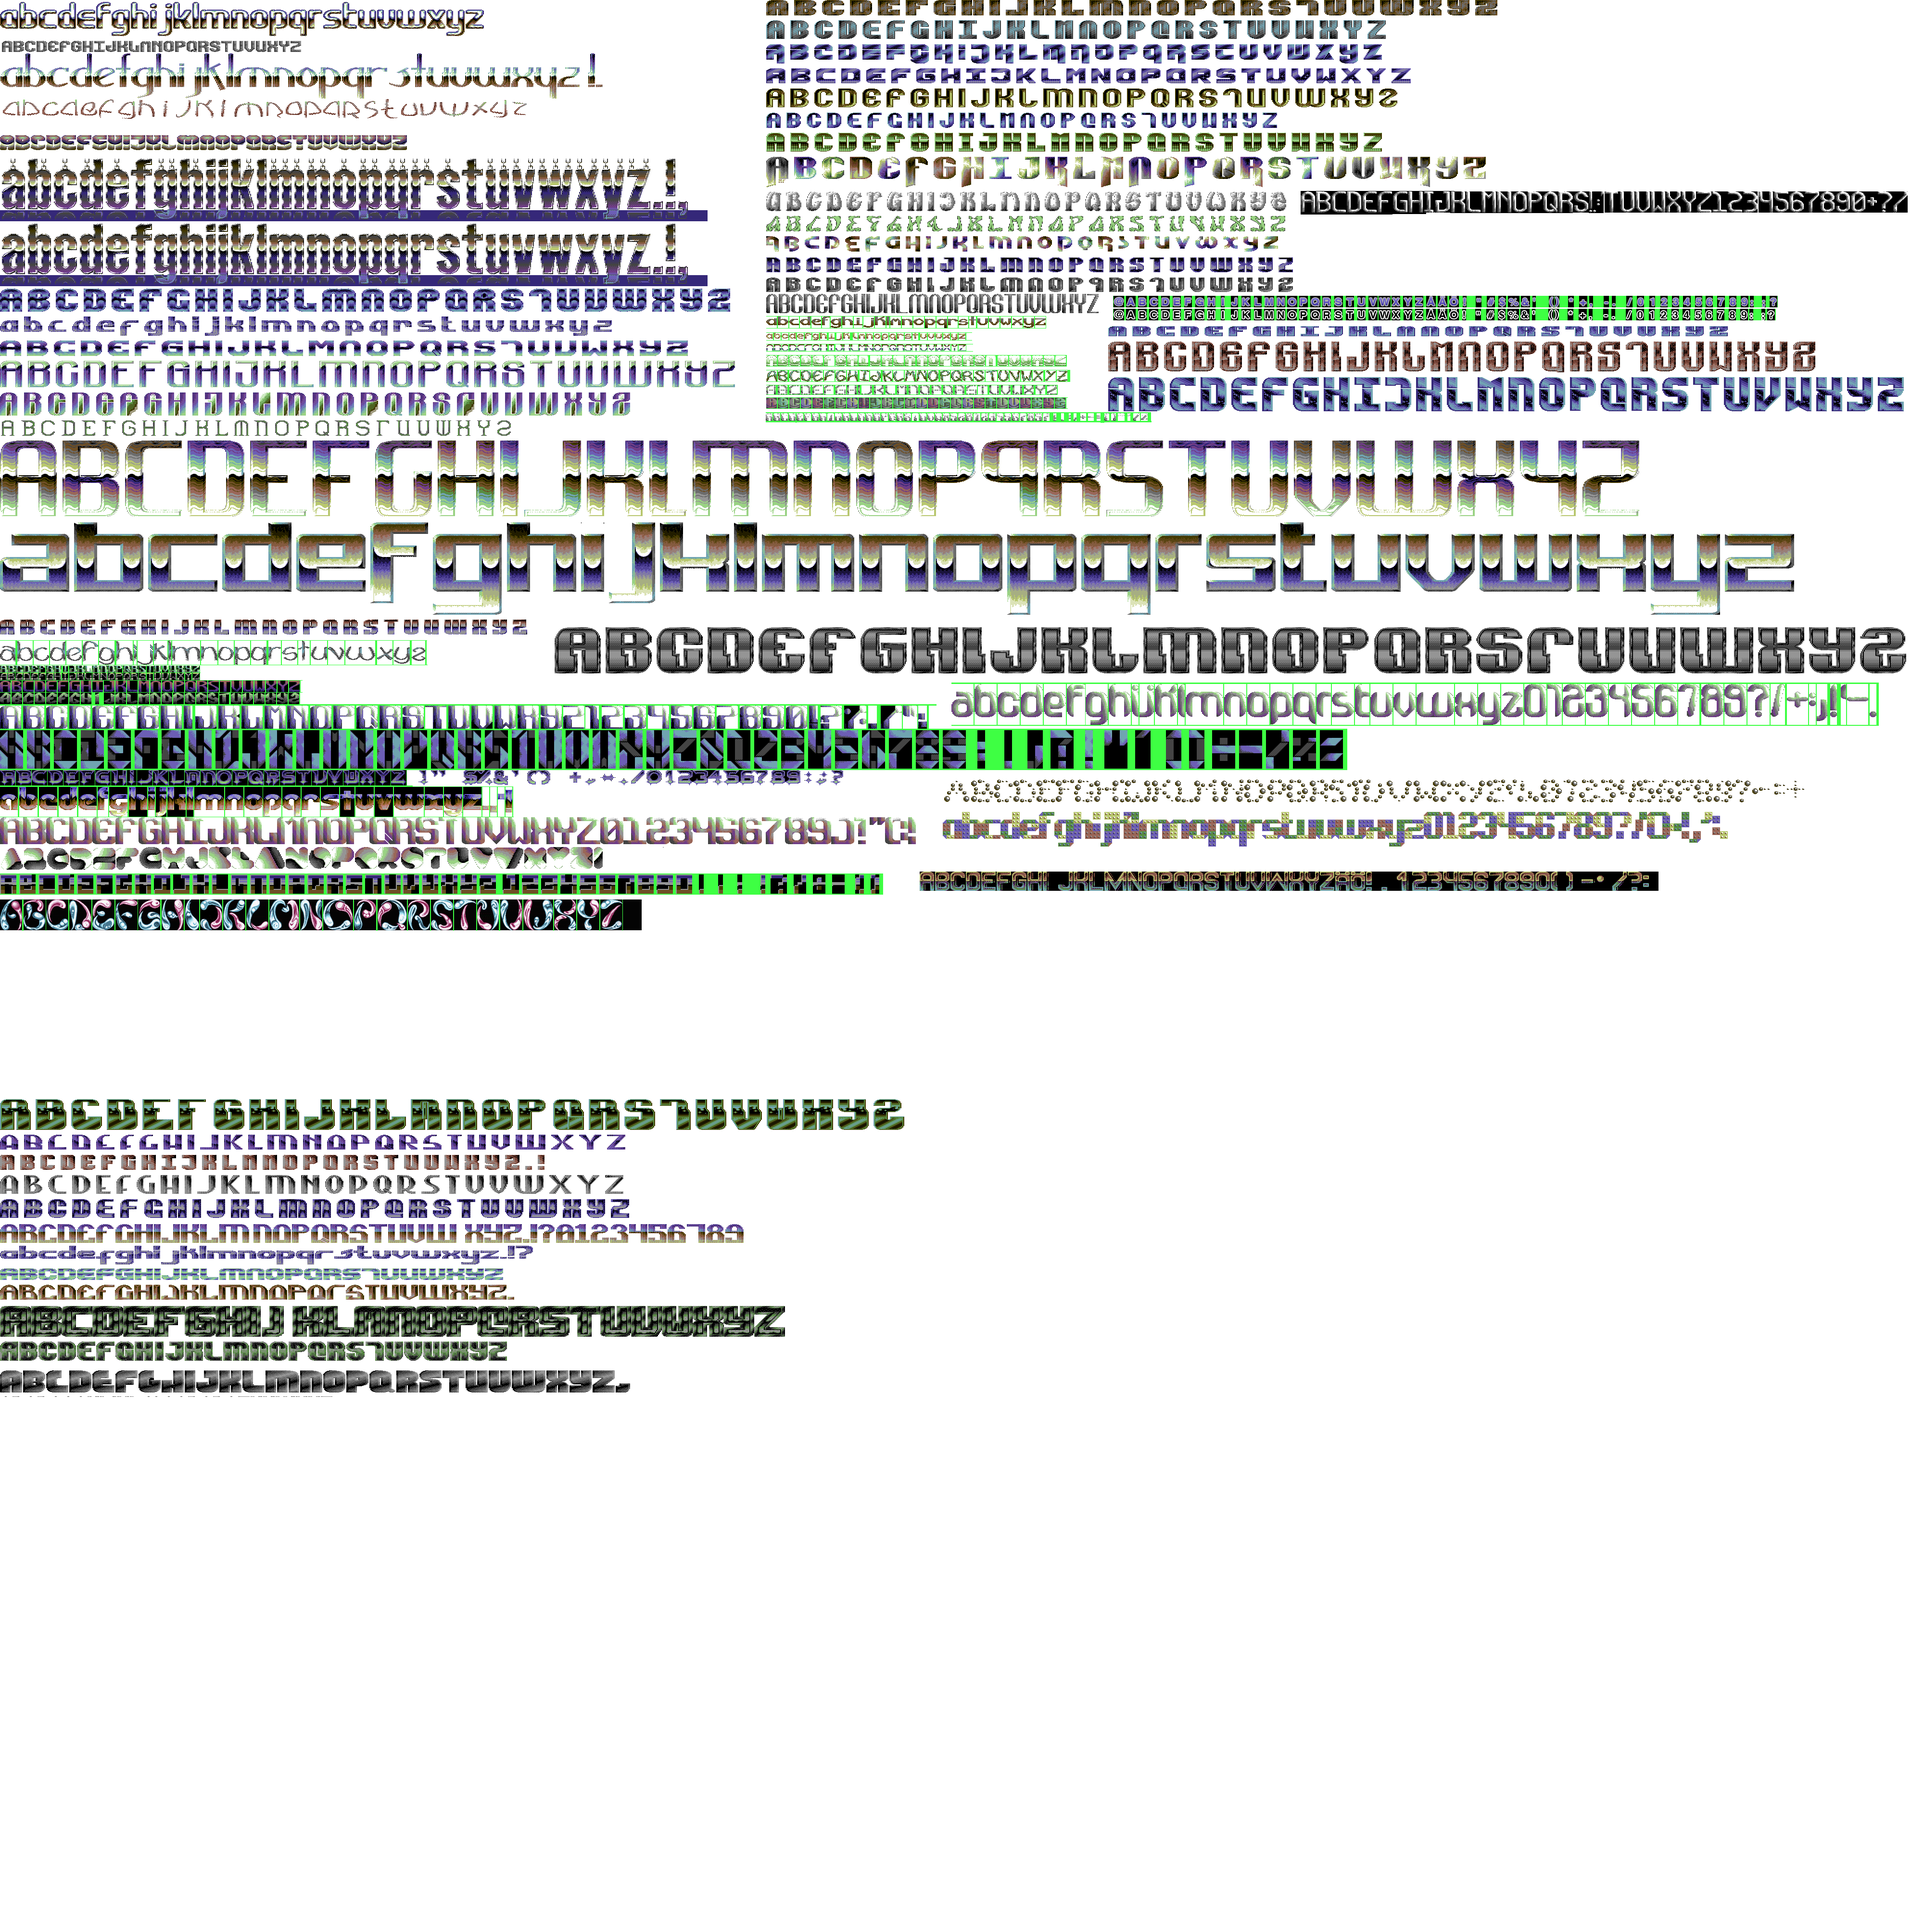
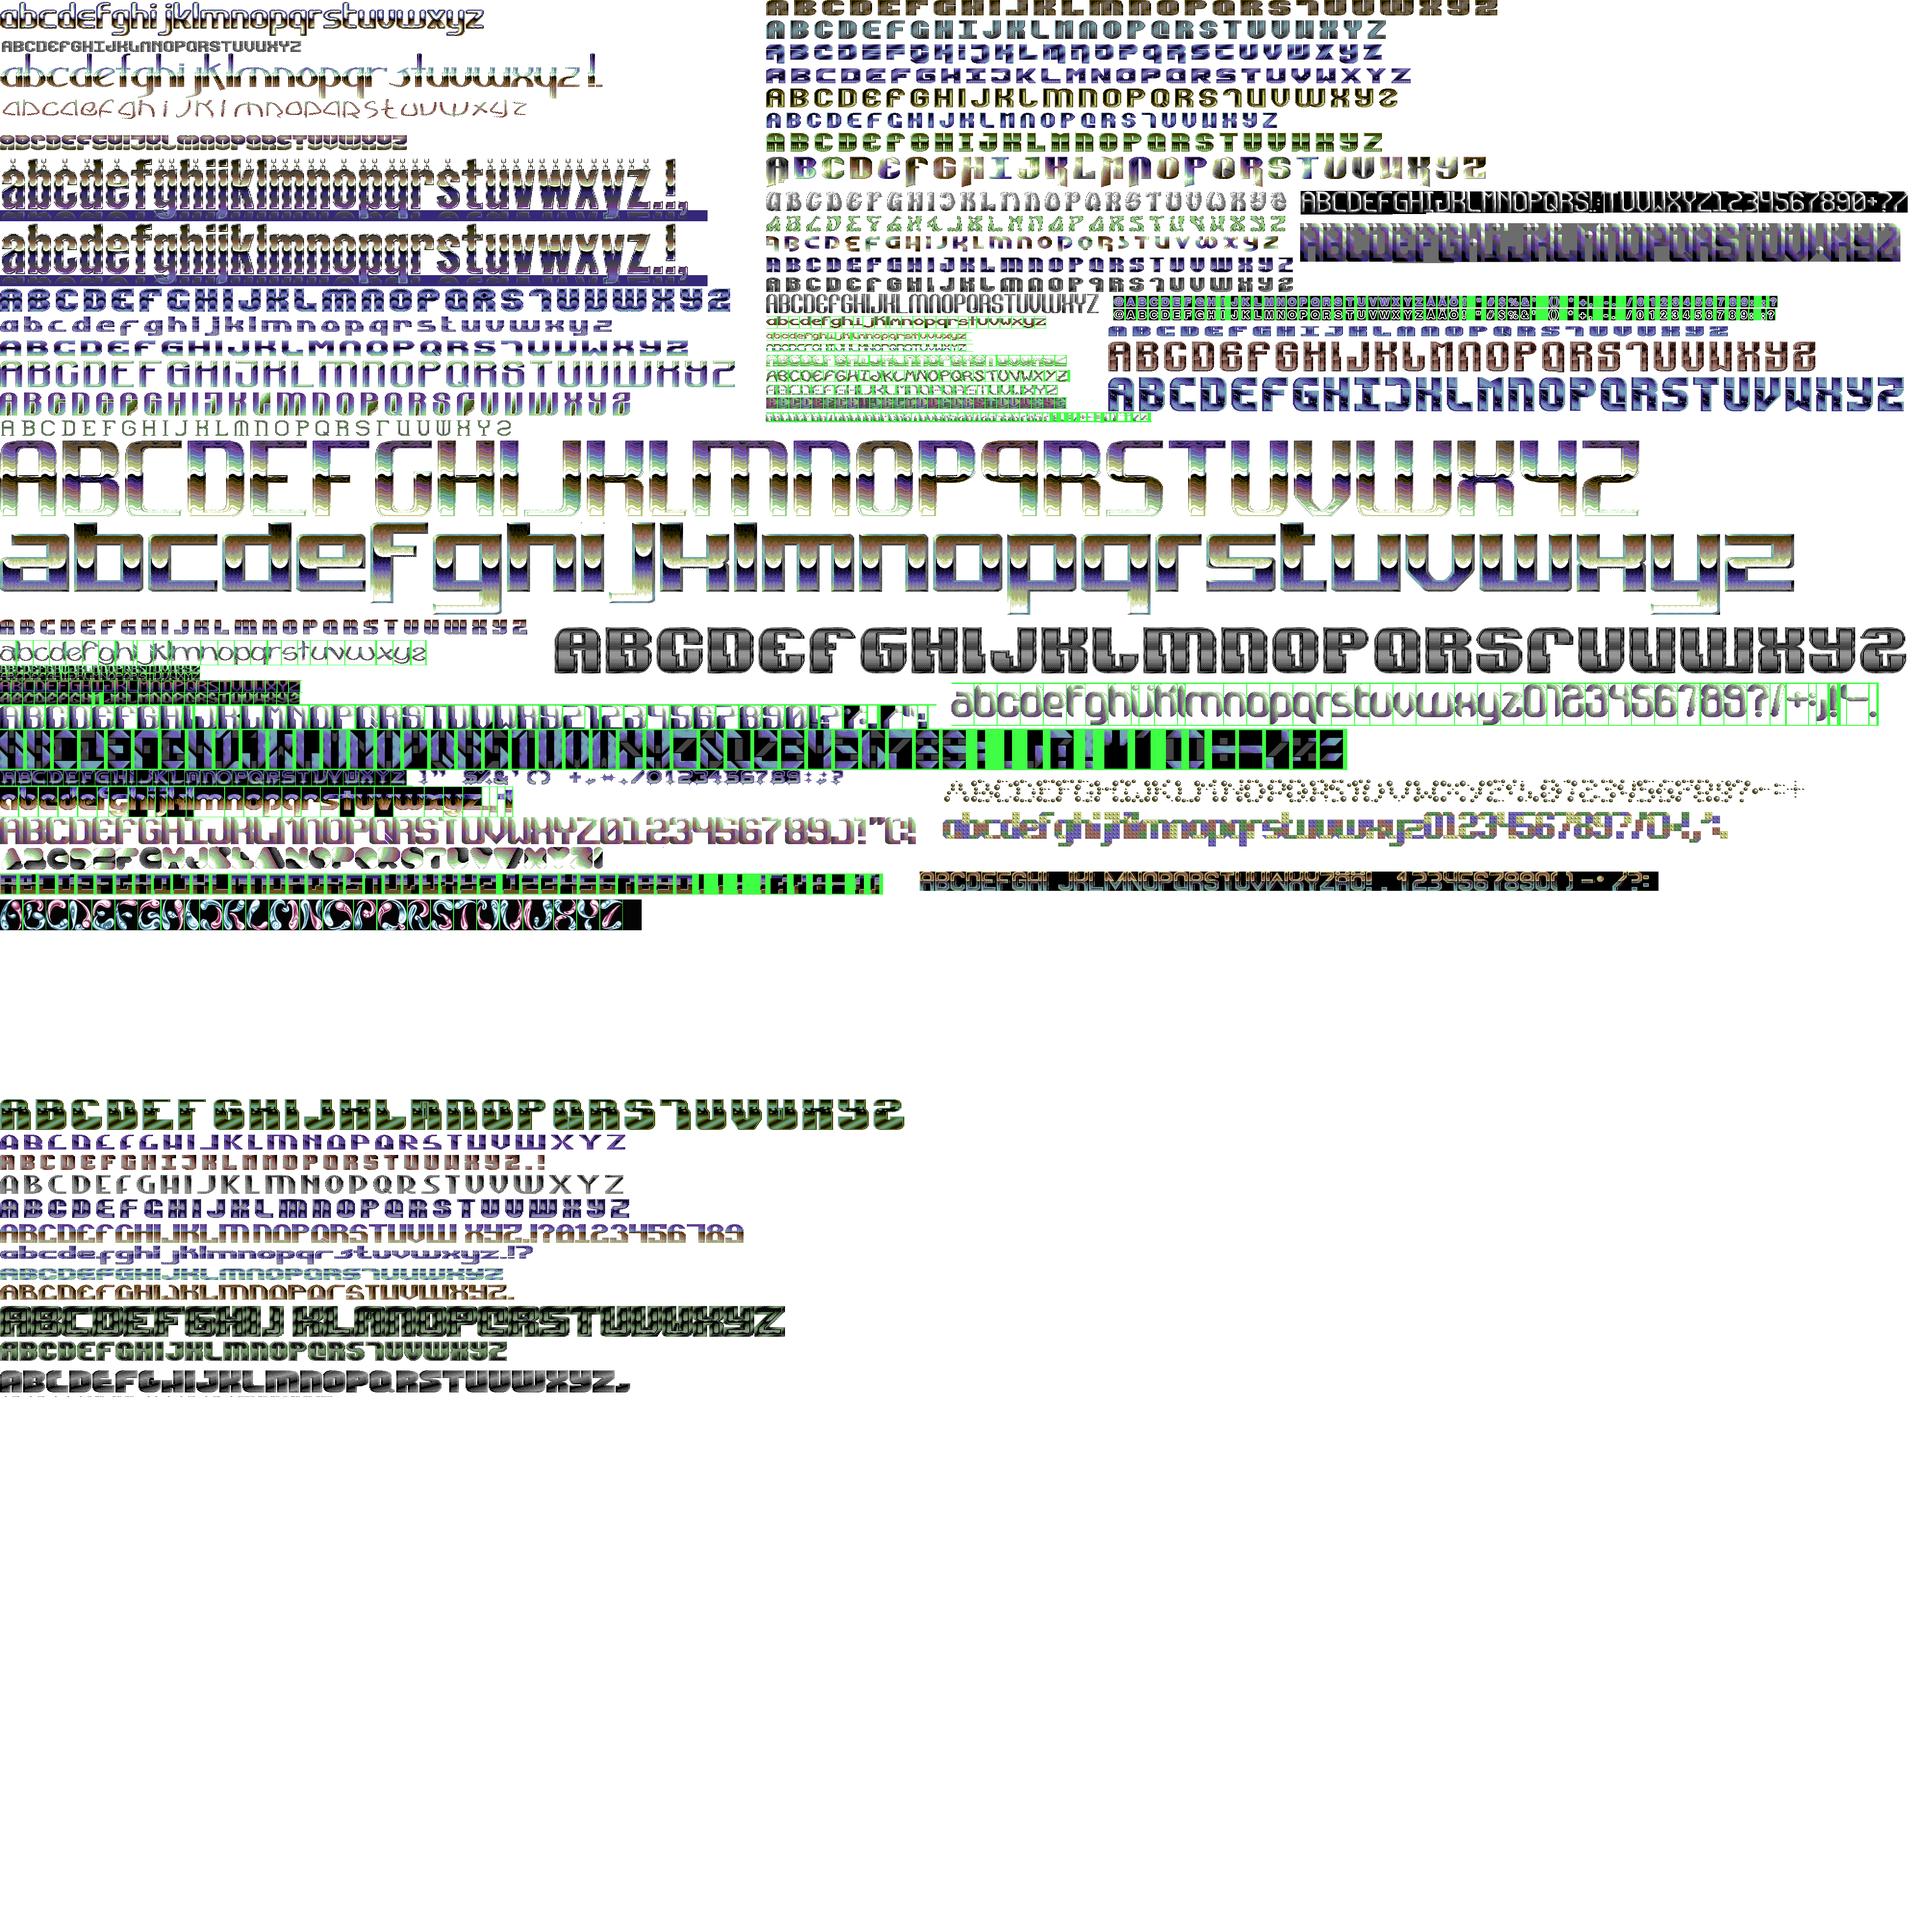
new font by cupid

Changed region(s): [[0.6562, 0.0938, 1.0, 0.1562]]

diff --git a/js/fonts.js b/js/fonts.js
@@ -1,78 +1,79 @@
 var imgobj = 
 {"ollie":{"start":0,"width":139,"height":62},
-  "fullheight":4260,"fullwidth":266,"reward":{"start":62,"width":93,"height":34},
-  "rookie":{"start":96,"width":232,"height":74},
-  "rewardbw":{"start":170,"width":92,"height":34},
-  "tinygold":{"start":204,"width":68,"height":24},
-  "arcoss":{"start":228,"width":192,"height":58},
-  "legomylogo":{"start":286,"width":152,"height":82},
-  "fcs":{"start":368,"width":154,"height":50},
-  "rocks":{"start":418,"width":192,"height":58},
-  "roundandlong":{"start":476,"width":136,"height":54},
-  "foldfont":{"start":530,"width":208,"height":90},
-  "roundandproud":{"start":620,"width":162,"height":95},
-  "bigcolourhires":{"start":715,"width":208,"height":66},
-  "twobytwohirescupid":{"start":781,"width":76,"height":24},
-  "nailedit":{"start":805,"width":72,"height":26},
-  "balls":{"start":831,"width":73,"height":25},
-  "cupidtilt":{"start":856,"width":104,"height":32},
-  "psychopoetry":{"start":888,"width":104,"height":33},
-  "metalpetscii":{"start":921,"width":152,"height":50},
-  "pseudotechno":{"start":971,"width":104,"height":29},
-  "cupid2014":{"start":1000,"width":114,"height":52},
-  "ironsky":{"start":1052,"width":104,"height":34},
-  "legend":{"start":1086,"width":142,"height":42},
-  "censor":{"start":1128,"width":142,"height":42},
-  "qpd":{"start":1170,"width":114,"height":41},
-  "tostretch":{"start":1211,"width":160,"height":25},
-  "cpx4":{"start":1236,"width":166,"height":43},
-  "cpx3":{"start":1279,"width":167,"height":51},
-  "macaroons":{"start":1330,"width":110,"height":32},
-  "artline":{"start":1362,"width":166,"height":50},
-  "deekay":{"start":1412,"width":146,"height":42},
-  "cupidround":{"start":1454,"width":88,"height":34},
-  "cupidfriendlyround":{"start":1488,"width":200,"height":55},
-  "orc":{"start":1543,"width":154,"height":85},
-  "compyx":{"start":1628,"width":178,"height":107},
-  "bd":{"start":1735,"width":210,"height":58},
-  "artix":{"start":1793,"width":154,"height":50},
-  "bd2":{"start":1843,"width":202,"height":42},
-  "bk":{"start":1885,"width":210,"height":66},
-  "bk2":{"start":1951,"width":178,"height":58},
-  "cml":{"start":2009,"width":144,"height":42},
-  "sulaco":{"start":2051,"width":104,"height":34},
-  "diart2":{"start":2085,"width":144,"height":72},
-  "deekay4":{"start":2157,"width":144,"height":42},
-  "dize":{"start":2199,"width":146,"height":42},
-  "genius":{"start":2241,"width":210,"height":42},
-  "gp":{"start":2283,"width":178,"height":50},
-  "htl":{"start":2333,"width":178,"height":50},
-  "htl2":{"start":2383,"width":186,"height":42},
-  "manowar":{"start":2425,"width":178,"height":50},
-  "nec":{"start":2475,"width":146,"height":42},
-  "ons":{"start":2517,"width":178,"height":50},
-  "oregon":{"start":2567,"width":210,"height":74},
-  "skyhigh":{"start":2641,"width":178,"height":32},
-  "vic":{"start":2673,"width":146,"height":50},
-  "deliverance":{"start":2723,"width":174,"height":50},
-  "unibit":{"start":2773,"width":206,"height":58},
-  "vic3":{"start":2831,"width":146,"height":42},
-  "wot":{"start":2873,"width":138,"height":44},
-  "wow":{"start":2917,"width":146,"height":42},
-  "tempest":{"start":2959,"width":210,"height":74},
-  "vic2":{"start":3033,"width":266,"height":74},
-  "cpx6":{"start":3107,"width":151,"height":49},
-  "tough":{"start":3156,"width":175,"height":34},
-  "doolittle":{"start":3190,"width":175,"height":42},
-  "unknown":{"start":3232,"width":234,"height":81},
-  "cpx5":{"start":3313,"width":174,"height":52},
-  "cupidbigstone":{"start":3365,"width":118,"height":60},
-  "deliverance2":{"start":3425,"width":142,"height":74},
-  "deekay2":{"start":3499,"width":198,"height":140},
-  "deekay3":{"start":3639,"width":198,"height":143},
-  "oregon2":{"start":3782,"width":202,"height":106},
-  "cpx2":{"start":3888,"width":210,"height":170},
-  "diart":{"start":4058,"width":202,"height":202}
+"fullheight":4350,"fullwidth":266,"dotshires":{"start":62,"width":208,"height":90},
+"reward":{"start":152,"width":93,"height":34},
+"rookie":{"start":186,"width":232,"height":74},
+"rewardbw":{"start":260,"width":92,"height":34},
+"tinygold":{"start":294,"width":68,"height":24},
+"arcoss":{"start":318,"width":192,"height":58},
+"legomylogo":{"start":376,"width":152,"height":82},
+"fcs":{"start":458,"width":154,"height":50},
+"rocks":{"start":508,"width":192,"height":58},
+"roundandlong":{"start":566,"width":136,"height":54},
+"foldfont":{"start":620,"width":208,"height":90},
+"roundandproud":{"start":710,"width":162,"height":95},
+"bigcolourhires":{"start":805,"width":208,"height":66},
+"twobytwohirescupid":{"start":871,"width":76,"height":24},
+"nailedit":{"start":895,"width":72,"height":26},
+"balls":{"start":921,"width":73,"height":25},
+"cupidtilt":{"start":946,"width":104,"height":32},
+"psychopoetry":{"start":978,"width":104,"height":33},
+"metalpetscii":{"start":1011,"width":152,"height":50},
+"pseudotechno":{"start":1061,"width":104,"height":29},
+"cupid2014":{"start":1090,"width":114,"height":52},
+"ironsky":{"start":1142,"width":104,"height":34},
+"legend":{"start":1176,"width":142,"height":42},
+"censor":{"start":1218,"width":142,"height":42},
+"qpd":{"start":1260,"width":114,"height":41},
+"tostretch":{"start":1301,"width":160,"height":25},
+"cpx4":{"start":1326,"width":166,"height":43},
+"cpx3":{"start":1369,"width":167,"height":51},
+"macaroons":{"start":1420,"width":110,"height":32},
+"artline":{"start":1452,"width":166,"height":50},
+"deekay":{"start":1502,"width":146,"height":42},
+"cupidround":{"start":1544,"width":88,"height":34},
+"cupidfriendlyround":{"start":1578,"width":200,"height":55},
+"orc":{"start":1633,"width":154,"height":85},
+"compyx":{"start":1718,"width":178,"height":107},
+"bd":{"start":1825,"width":210,"height":58},
+"artix":{"start":1883,"width":154,"height":50},
+"bd2":{"start":1933,"width":202,"height":42},
+"bk":{"start":1975,"width":210,"height":66},
+"bk2":{"start":2041,"width":178,"height":58},
+"cml":{"start":2099,"width":144,"height":42},
+"sulaco":{"start":2141,"width":104,"height":34},
+"diart2":{"start":2175,"width":144,"height":72},
+"deekay4":{"start":2247,"width":144,"height":42},
+"dize":{"start":2289,"width":146,"height":42},
+"genius":{"start":2331,"width":210,"height":42},
+"gp":{"start":2373,"width":178,"height":50},
+"htl":{"start":2423,"width":178,"height":50},
+"htl2":{"start":2473,"width":186,"height":42},
+"manowar":{"start":2515,"width":178,"height":50},
+"nec":{"start":2565,"width":146,"height":42},
+"ons":{"start":2607,"width":178,"height":50},
+"oregon":{"start":2657,"width":210,"height":74},
+"skyhigh":{"start":2731,"width":178,"height":32},
+"vic":{"start":2763,"width":146,"height":50},
+"deliverance":{"start":2813,"width":174,"height":50},
+"unibit":{"start":2863,"width":206,"height":58},
+"vic3":{"start":2921,"width":146,"height":42},
+"wot":{"start":2963,"width":138,"height":44},
+"wow":{"start":3007,"width":146,"height":42},
+"tempest":{"start":3049,"width":210,"height":74},
+"vic2":{"start":3123,"width":266,"height":74},
+"cpx6":{"start":3197,"width":151,"height":49},
+"tough":{"start":3246,"width":175,"height":34},
+"doolittle":{"start":3280,"width":175,"height":42},
+"unknown":{"start":3322,"width":234,"height":81},
+"cpx5":{"start":3403,"width":174,"height":52},
+"cupidbigstone":{"start":3455,"width":118,"height":60},
+"deliverance2":{"start":3515,"width":142,"height":74},
+"deekay2":{"start":3589,"width":198,"height":140},
+"deekay3":{"start":3729,"width":198,"height":143},
+"oregon2":{"start":3872,"width":202,"height":106},
+"cpx2":{"start":3978,"width":210,"height":170},
+"diart":{"start":4148,"width":202,"height":202}
 }; 
 var fonts = {
 ollie:{
@@ -81,7 +82,7 @@ year: '',
 productlink: '',
 format: 'Multicolour Bitmap',
 maker: 'Ollie',
-makerlink: 'http://csdb.dk/scener/?id=1805',
+makerlink: 'http://csdb.dk/scener/?id=8137',
 offset:206,height:52,
 a:[4,40],b:[45,38],c:[86,37],d:[123,40],e:[163,40],
 f:[203,33],g:[246,36],h:[286,36],i:[335,13],j:[365,32],k:[405,39],
@@ -89,7 +90,21 @@ l:[455,15],m:[486,61],n:[550,39],o:[590,39],p:[630,39],q:[670,37],
 r:[708,41],s:[756,30],t:[790,37],u:[833,36],v:[871,37],w:[910,65],
 x:[983,30],y:[1015,40],z:[1063,34]
 },
-reward:{
+dotshires:{
+  product: '',
+  year: '2021',
+  productlink: '',
+  format: 'Hires Bitmap',
+  maker: 'Cupid',
+  makerlink: 'http://csdb.dk/scener/?id=1805',
+  offset:464,height:80,xoffset:2703,background:'grey',
+  a:[0,48],b:[48,48],c:[96,48],d:[144,48],e:[192,48],f:[240,48],g:[288,48],
+  h:[336,48],i:[384,48],j:[432,48],k:[480,48],l:[528,48],m:[576,48],
+  n:[624,48],o:[672,48],p:[720,48],q:[768,48],r:[816,48],s:[864,48],
+  t:[912,48],u:[960,48],v:[1008,48],w:[1056,48],x:[1104,48],
+  y:[1152,48],z:[1200,48]
+  },
+  reward:{
   product: '',
   year: '2020',
   productlink: '',

diff --git a/rip.html b/rip.html
@@ -26,7 +26,7 @@ window.addEventListener('load', function(){
   var startpoint = [0,1871];
   var green = {r:62,b:67,g:255,a:255};
   // var green = {r:75,g:253,b:81,a:255};
-  var letters = `@abcdefghijklmnopqrstuvwxyzåäö!"#$%&'()*+,-./01234567989:;?`.split('');
+  // var letters = `@abcdefghijklmnopqrstuvwxyzåäö!"#$%&'()*+,-./01234567989:;?`.split('');
   var letters = `abcdefghijklmnopqrstuvwxyz`.split('');
   var fontdata = {};
 
